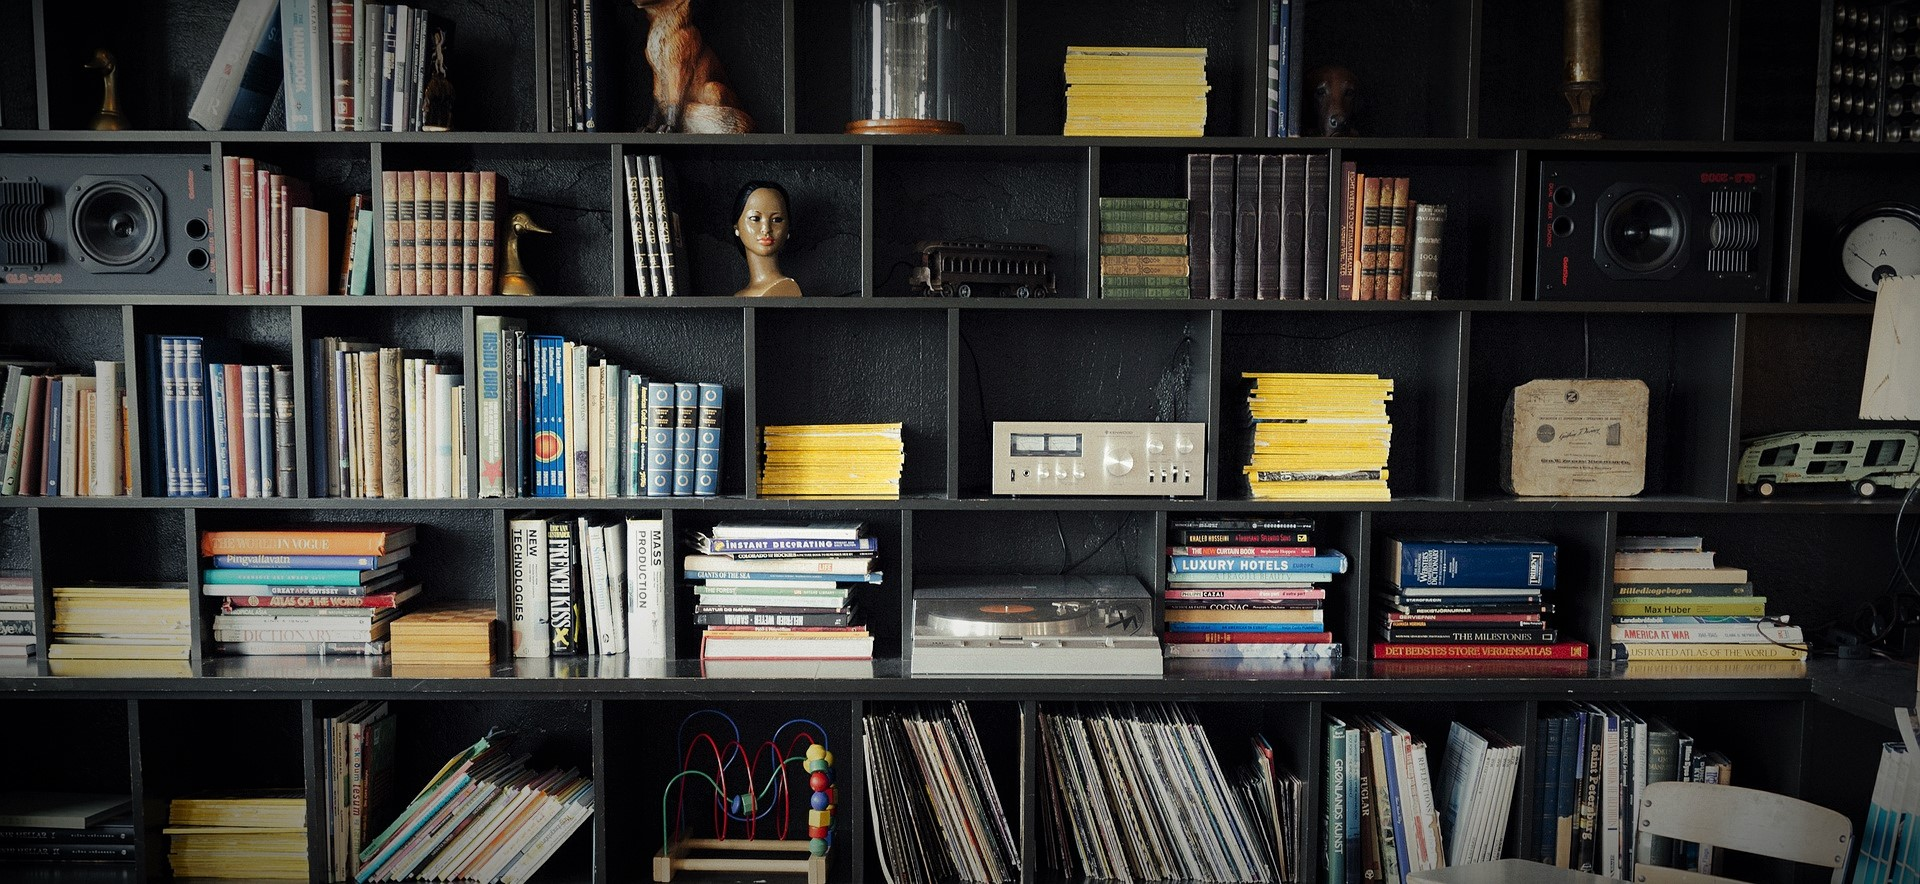
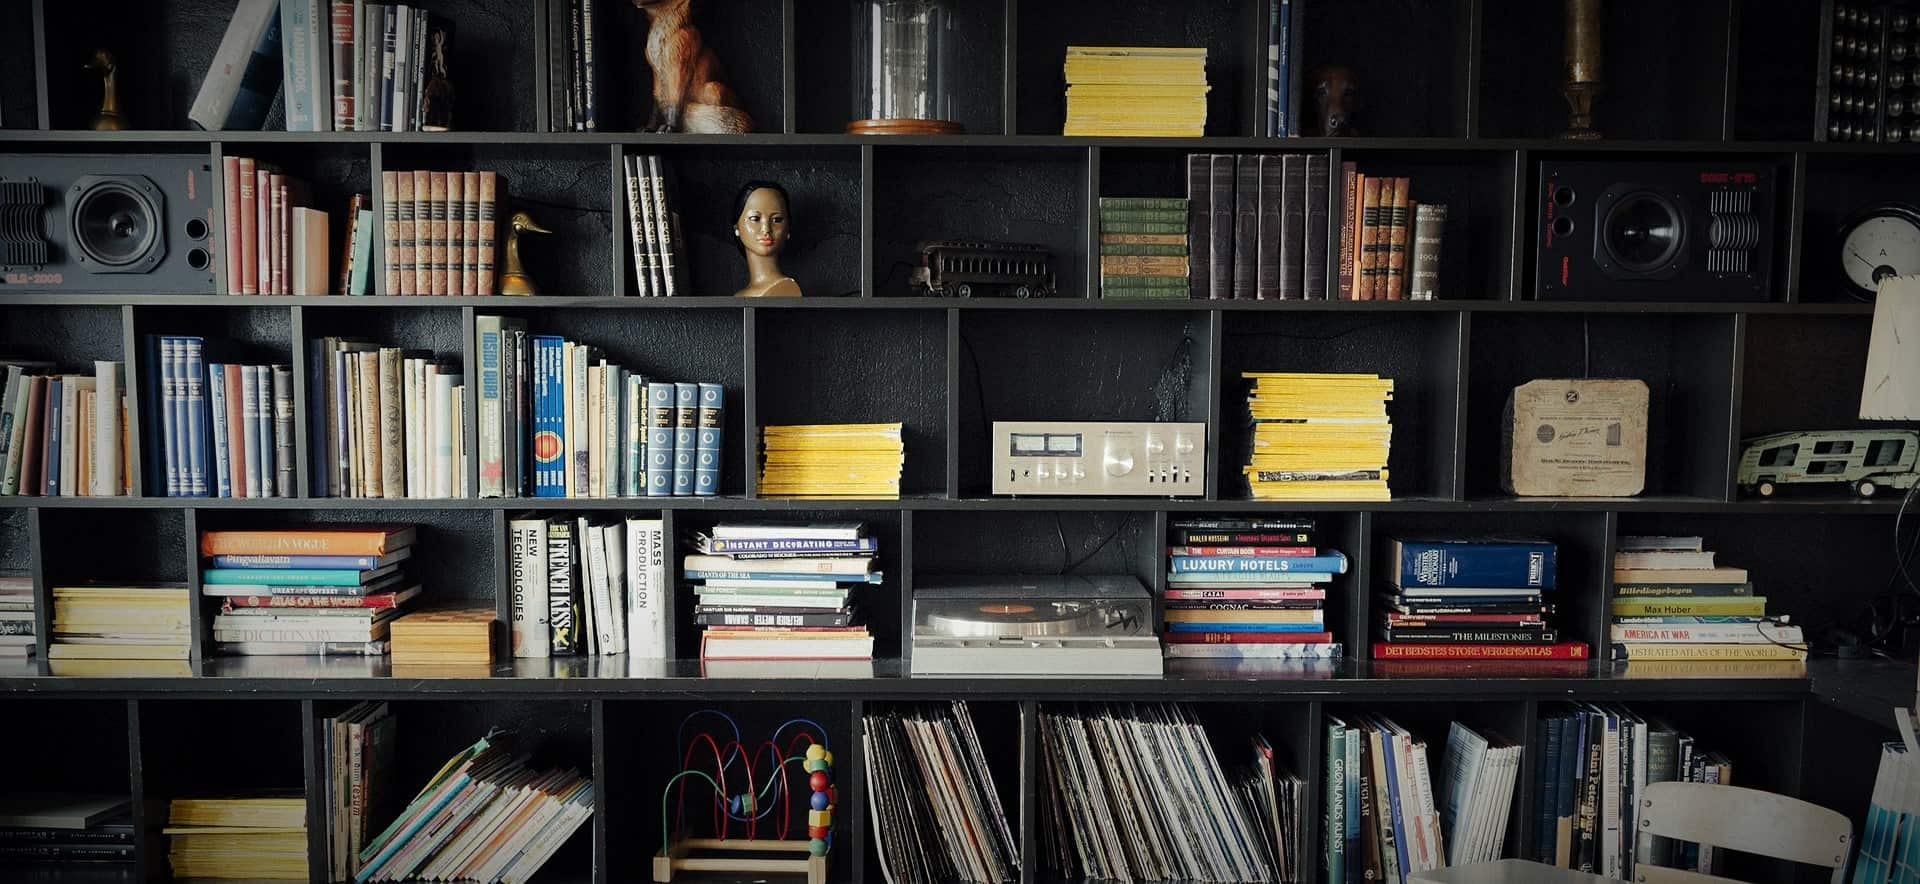
aggiunta sitemap e immagini ottimizzate

diff --git a/app/assets/stylesheets/custom.css.scss b/app/assets/stylesheets/custom.css.scss
@@ -221,7 +221,7 @@ h6 { font-size: 13px; }
 /* 1.1          */
 /* Header rules */
 #header {
-	background-image: url(image_path('index_bg.jpg'));
+	background-image: url(image_path('index_bg.png'));
 	background-position: center center;
 	background-size: cover;
 	padding:180px 0;
@@ -280,14 +280,14 @@ h6 { font-size: 13px; }
 
 /* 1.3             */
 /* Section 3 rules */
-#section3 {
-	background-image: url(image_path('bg-2.jpg')); /*inserisci percorso*/
+/*#section3 {
+	background-image: url(image_path('bg-2.png')); 
 	background-position: center center;
 	background-size: cover;
 	padding:130px 0;
 	overflow: hidden;
 	width:100%;
-}
+}*/
 
 /* end of section 3 rules */
 

diff --git a/app/assets/stylesheets/sitemap.scss b/app/assets/stylesheets/sitemap.scss
@@ -1,0 +1,3 @@
+// Place all the styles related to the sitemap controller here.
+// They will automatically be included in application.css.
+// You can use Sass (SCSS) here: http://sass-lang.com/

diff --git a/config/routes.rb b/config/routes.rb
@@ -1,4 +1,7 @@
 Rails.application.routes.draw do
+  resources :sitemap, :only =>:index
+  get 'sitemap.xml', :controller =>"sitemap", :action => "xml"
+
   resources :micropost_viewer, only: [:show]
   resources :notifications, only: [:index]
   root 'static_pages#home'

diff --git a/app/controllers/sitemap_controller.rb b/app/controllers/sitemap_controller.rb
@@ -1,0 +1,8 @@
+class SitemapController < ApplicationController
+   respond_to :xml
+  def index
+    #@microposts = Micropost.all
+    @users = User.all
+    @categories = Category.all
+  end
+end

diff --git a/test/controllers/sitemap_controller_test.rb b/test/controllers/sitemap_controller_test.rb
@@ -1,0 +1,9 @@
+require 'test_helper'
+
+class SitemapControllerTest < ActionController::TestCase
+  test "should get index" do
+    get :index
+    assert_response :success
+  end
+
+end

diff --git a/app/helpers/sitemap_helper.rb b/app/helpers/sitemap_helper.rb
@@ -1,0 +1,2 @@
+module SitemapHelper
+end
